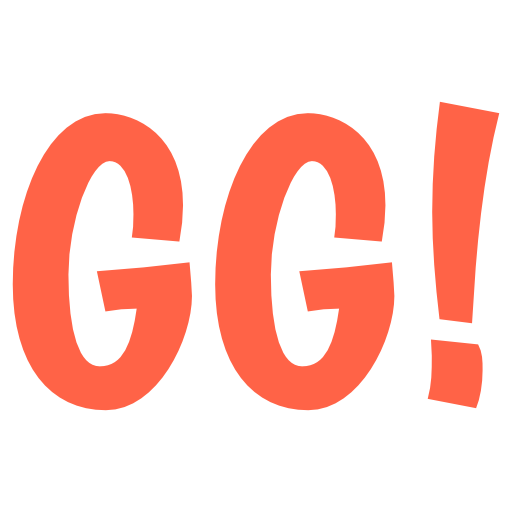
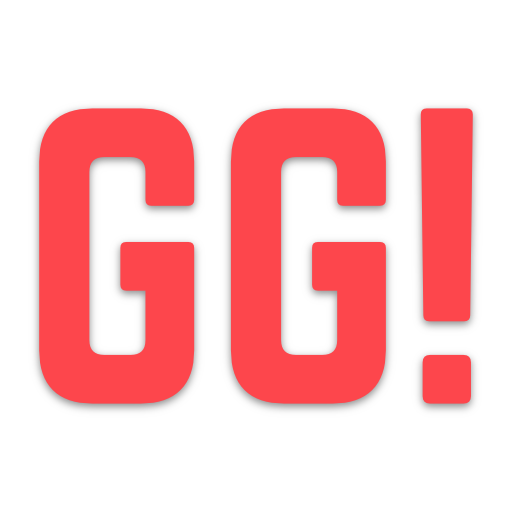
update pwa assets

diff --git a/public/index.html b/public/index.html
@@ -11,8 +11,9 @@
   <link rel="apple-touch-icon" sizes="180x180" href="%PUBLIC_URL%/apple-touch-icon.png">
   <link rel="icon" type="image/png" sizes="32x32" href="%PUBLIC_URL%/favicon-32x32.png">
   <link rel="icon" type="image/png" sizes="16x16" href="%PUBLIC_URL%/favicon-16x16.png">
-  <link rel="mask-icon" href="%PUBLIC_URL%/safari-pinned-tab.svg" color="#5bbad5">
-  <meta name="msapplication-TileColor" content="#b91d47">
+  <link rel="mask-icon" href="%PUBLIC_URL%/safari-pinned-tab.svg" color="#fd464c">
+  <meta name="msapplication-TileColor" content="#ffc40d">
+  <meta name="theme-color" content="#fd464c">
 
   <!--
       Notice the use of %PUBLIC_URL% in the tags above.
